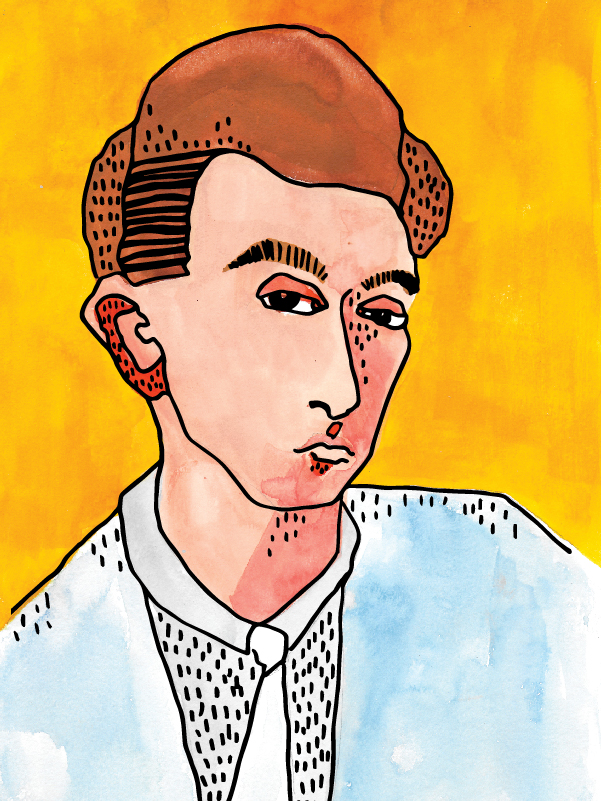
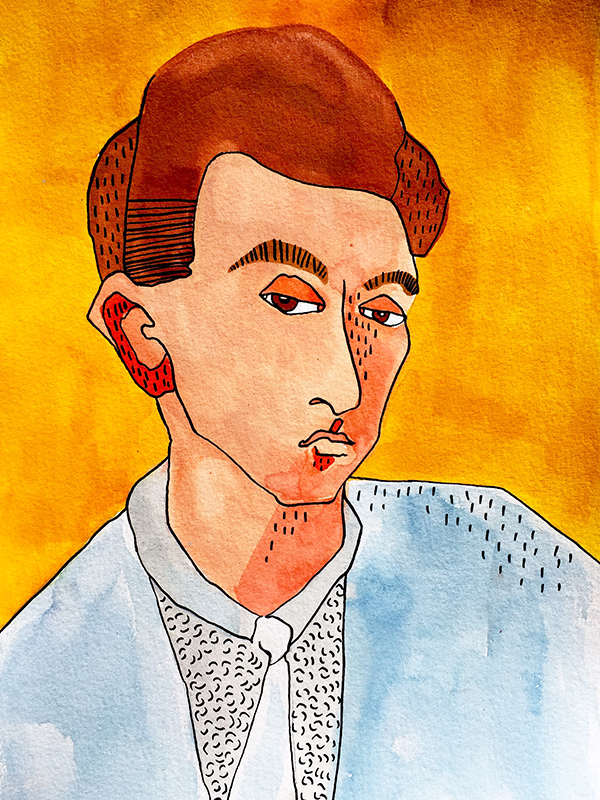
project updated

diff --git a/project/randomppl.html b/project/randomppl.html
@@ -1,7 +1,7 @@
 <!DOCTYPE html>
 <html lang="en">
 <head>
-  <title>Apartment</title>
+  <title>Random People Make You Smile</title>
   <meta charset="utf-8">
   <meta name="viewport" content="width=device-width, initial-scale=1">
   <!--font-->
@@ -19,9 +19,9 @@
 <body id="home">
 <!-- Navbar -->
 <div id="about" class="container-fluid bg-blue text-center">
-  <a href="justcollection.html"><span class="glyphicon glyphicon-chevron-left"></span></a>
+  <a href="daydaydoodle.html"><span class="glyphicon glyphicon-chevron-left"></span></a>
   <a href="../index.html"><img src="../img/home.svg" class="img-responsive hover home-icon" alt="image"></a>
-  <a href="littlestores.html"><span class="glyphicon glyphicon-chevron-right"></span></a>
+  <a href="portraits.html"><span class="glyphicon glyphicon-chevron-right"></span></a>
 </div>
 </div>
 
@@ -29,16 +29,18 @@
 
 <!-- Content-->
 <div class="container-fluid bg-white text-center" >
-  <h2 class="gallerytitle">Apartment</h2><br/>
+  <h2 class="gallerytitle">Random People Make You Smile</h2><br/>
   <div class="row"> 
     <div class="col-sm-12 description">
-      <p>2016 / A series of illustrations of ambiguous apartments.</p>
+      <p>2016 / Random people Make You Smile.<br/>
+      A seies of illustrations of random people doing random things at random places.</p>
     </div>
   </div>
   <div class="row gallery">
     <div class="col-sm-12">
-      <img src="../img/apartment/kitchen.jpg" class="img-responsive artwork" alt="image"/>
-
+      <img src="../img/randomppl/randomppl01.jpg" class="img-responsive artwork-portrait" alt="image"/>
+      <img src="../img/randomppl/randomppl02.jpg" class="img-responsive artwork-portrait" alt="image"/>
+      <img src="../img/randomppl/randomppl03.jpg" class="img-responsive artwork-portrait" alt="image"/>
     </div>
   </div>
 
@@ -57,7 +59,6 @@
     <a href="https://www.instagram.com/urbancatcher/" target="_blank"><img src="../img/socialicon/ig.png" class="img-responsive hover" style="display:inline" alt="image" width="80px" height=auto></a>
     <a href="https://www.pinterest.com/urbancatcherhk" target="_blank"><img src="../img/socialicon/pinterest.png" class="img-responsive hover" style="display:inline" alt="image" width="80px" height=auto></a>
 <!--     <a href="https://www.flickr.com/photos/urbancatcher" target="_blank"><img src="../img/socialicon/flickr.png" class="img-responsive hover" style="display:inline" alt="oops.." width="80px" height=auto></a> -->
-
   </div>
   <div class="col-sm-4" style="padding:0px 50px">
     <h3 style="color:#ffffff">Store</h3>

diff --git a/project/cozyhome.html b/project/cozyhome.html
@@ -1,7 +1,7 @@
 <!DOCTYPE html>
 <html lang="en">
 <head>
-  <title>Little Stores</title>
+  <title>Cozy Home</title>
   <meta charset="utf-8">
   <meta name="viewport" content="width=device-width, initial-scale=1">
   <!--font-->
@@ -19,9 +19,9 @@
 <body id="home">
 <!-- Navbar -->
 <div id="about" class="container-fluid bg-blue text-center">
-  <a href="apartment.html"><span class="glyphicon glyphicon-chevron-left"></span></a>
+  <a href="portraits.html"><span class="glyphicon glyphicon-chevron-left"></span></a>
   <a href="../index.html"><img src="../img/home.svg" class="img-responsive hover home-icon" alt="image"></a>
-  <a href="postcard.html"><span class="glyphicon glyphicon-chevron-right"></span></a>
+  <a href="jungle.html"><span class="glyphicon glyphicon-chevron-right"></span></a>
 </div>
 </div>
 
@@ -29,17 +29,18 @@
 
 <!-- Content-->
 <div class="container-fluid bg-white text-center" >
-  <h2 class="gallerytitle">Little Stores</h2><br/>
+  <h2 class="gallerytitle">Cozy Home</h2><br/>
   <div class="row"> 
     <div class="col-sm-12 description">
-      <p>2016 / A seies of illustrations of little funny stores in neighbourhoods I have been living in.</p>
+      <p>2016 / Cozy Home<br/>
+      A series of illustrations of cozy home in ambiguous apartments.</p>
     </div>
   </div>
   <div class="row gallery">
     <div class="col-sm-12">
-      <img src="../img/littlestores/store01.jpg" class="img-responsive artwork" alt="image"/>
-<!--       <h4 class="worktitle">Beer Collection</h4> -->
-
+      <img src="../img/cozyhome/cozyhome01.jpg" class="img-responsive artwork" alt="image"/>
+      <img src="../img/cozyhome/cozyhome03.jpg" class="img-responsive artwork" alt="image"/>
+      <img src="../img/cozyhome/cozyhome02.jpg" class="img-responsive artwork" alt="image"/>
     </div>
   </div>
 
@@ -58,6 +59,7 @@
     <a href="https://www.instagram.com/urbancatcher/" target="_blank"><img src="../img/socialicon/ig.png" class="img-responsive hover" style="display:inline" alt="image" width="80px" height=auto></a>
     <a href="https://www.pinterest.com/urbancatcherhk" target="_blank"><img src="../img/socialicon/pinterest.png" class="img-responsive hover" style="display:inline" alt="image" width="80px" height=auto></a>
 <!--     <a href="https://www.flickr.com/photos/urbancatcher" target="_blank"><img src="../img/socialicon/flickr.png" class="img-responsive hover" style="display:inline" alt="oops.." width="80px" height=auto></a> -->
+
   </div>
   <div class="col-sm-4" style="padding:0px 50px">
     <h3 style="color:#ffffff">Store</h3>

diff --git a/project/portraits.html b/project/portraits.html
@@ -1,4 +1,4 @@
-<!DOCTYPE html>
+w<!DOCTYPE html>
 <html lang="en">
 <head>
   <title>Portraits</title>
@@ -19,41 +19,28 @@
 <body id="home">
 <!-- Navbar -->
 <div id="about" class="container-fluid bg-blue text-center">
-  <a href="daydaydoodle.html"><span class="glyphicon glyphicon-chevron-left"></span></a>
+  <a href="randomppl.html"><span class="glyphicon glyphicon-chevron-left"></span></a>
   <a href="../index.html"><img src="../img/home.svg" class="img-responsive hover home-icon" alt="image"></a>
-  <a href="jungle.html"><span class="glyphicon glyphicon-chevron-right"></span></a>
+  <a href="cozyhome.html"><span class="glyphicon glyphicon-chevron-right"></span></a>
 </div>
 </div>
 
 
 
 <!-- Content-->
-<div class="container-fluid bg-white text-center" >
+<div class="container-fluid bg-white text-center">
   <h2 class="gallerytitle">Portraits</h2><br/>
   <div class="row"> 
     <div class="col-sm-12 description">
-      <p>2016 / A series of illustrations of portraits.</p>
+      <p>2016 / Portraits.<br/>
+      A series of illustrations of familiar faces.</p>
     </div>
   </div>
   <div class="row gallery">
-    <h4 class="worktitle">Van Gogh</h4>    
-    <div class="col-sm-6">
-      <img src="../img/portraits/vangogh01.jpg" class="img-responsive artwork-portrait" alt="image"/>
-    </div>
-    <div class="col-sm-6">
-      <img src="../img/portraits/vangogh02.jpg" class="img-responsive artwork-portrait" alt="image"/>
-    </div>
-
-    <h4 class="worktitle">Schiele and Klimt</h4>    
-    <div class="col-sm-6">
-      <img src="../img/portraits/schiele.jpg" class="img-responsive artwork-portrait" alt="image"/>
-    </div>
-    <div class="col-sm-6">
-      <img src="../img/portraits/klimt.jpg" class="img-responsive artwork-portrait" alt="image"/>
-    </div>
-
-    <h4 class="worktitle">Contour</h4>    
     <div class="col-sm-12">
+      <img src="../img/portraits/vangogh01.jpg" class="img-responsive artwork-portrait" alt="image"/>
+      <img src="../img/portraits/vangogh02.jpg" class="img-responsive artwork-portrait" alt="image"/>
+      <img src="../img/portraits/schiele.jpg" class="img-responsive artwork-portrait" alt="image"/>
       <img src="../img/portraits/artists-contour.jpg" class="img-responsive artwork" alt="image" style="width:800px"/>
     </div>
 

diff --git a/index.html b/index.html
@@ -83,9 +83,19 @@
     </div>
 
     <div class="col-sm-3 thumbnail-frame">
-      <a href="project/portraits.html"><img src="img/thumbnail/portrait.jpg" class="img-responsive hover thumbnailicon" style="display:inline" alt="image"><p>Portraits</p></a> 
+      <a href="project/randomppl.html"><img src="img/thumbnail/randomppl.jpg" class="img-responsive hover thumbnailicon" style="display:inline" alt="image"><p>Random People Make You Smile :)</p></a> 
     </div>
 
+    <div class="col-sm-3 thumbnail-frame">
+      <a href="project/portraits.html"><img src="img/thumbnail/portraits.jpg" class="img-responsive hover thumbnailicon" style="display:inline" alt="image"><p>Portraits</p></a> 
+    </div>
+
+    <div class="col-sm-3 thumbnail-frame">
+      <a href="project/cozyhome.html"><img src="img/thumbnail/cozyhome.jpg" class="img-responsive hover thumbnailicon" style="display:inline" alt="image"><p>Cozy Home</p></a> 
+    </div>
+
+  </div>   
+  <div class="row">
     <div class="col-sm-3 thumbnail-frame">
       <a href="project/jungle.html"><img src="img/thumbnail/jungle.jpg" class="img-responsive hover thumbnailicon" style="display:inline" alt="image"><p>Welcome to the Jungle</p></a> 
     </div>
@@ -94,19 +104,8 @@
       <a href="project/botanicalgarden.html"><img src="img/thumbnail/botanicalgarden.jpg" class="img-responsive hover thumbnailicon" style="display:inline" alt="image"><p>Botanical Garden</p></a> 
     </div>
 
-  </div>
-  
-  <div class="row">
     <div class="col-sm-3 thumbnail-frame">
       <a href="project/justcollection.html"><img src="img/thumbnail/justcollection.jpg" class="img-responsive hover thumbnailicon" style="display:inline" alt="image"><p>Just Collection</p></a> 
-    </div>
-
-    <div class="col-sm-3 thumbnail-frame">
-      <a href="project/apartment.html"><img src="img/thumbnail/apartment.jpg" class="img-responsive hover thumbnailicon" style="display:inline" alt="image"><p>Apartment</p></a> 
-    </div>
-
-    <div class="col-sm-3 thumbnail-frame">
-      <a href="project/littlestores.html"><img src="img/thumbnail/littlestores.jpg" class="img-responsive hover thumbnailicon" style="display:inline" alt="image"><p>Little Stores</p></a> 
     </div>
 
     <div class="col-sm-3 thumbnail-frame">

diff --git a/project/botanicalgarden.html b/project/botanicalgarden.html
@@ -32,18 +32,18 @@
   <h2 class="gallerytitle">Botanical Garden</h2><br/>
   <div class="row">
     <div class="col-sm-12 description">
-      <p>2016 / A series of illustrations of plants.</p>
+      <p>2016 / Botanical Garden.<br/>
+      A series of illustrations of plants and girls.</p>
     </div>
   </div>
   <div class="row gallery">
     <div class="col-sm-12">
-      <h4 class="worktitle">Cactus Love</h4>    
-      <img src="../img/botanicalgarden/cactusandgirl.jpg" class="img-responsive artwork" alt="image"/>
-      <img src="../img/botanicalgarden/cactus.jpg" class="img-responsive artwork" alt="image"/>
+<!--       <h4 class="worktitle">Cactus Love</h4> -->
+      <img src="../img/botanicalgarden/garden01.jpg" class="img-responsive artwork" alt="image"/>
+      <img src="../img/botanicalgarden/garden03.jpg" class="img-responsive artwork" alt="image"/>
+      <img src="../img/botanicalgarden/garden02.jpg" class="img-responsive artwork" alt="image"/>
+
       <img src="../img/botanicalgarden/cactus-pattern.jpg" class="img-responsive artwork" alt="image"/>
-
-
-
     </div>
   </div>
 

diff --git a/project/daydaydoodle.html b/project/daydaydoodle.html
@@ -21,7 +21,7 @@
 <div id="about" class="container-fluid bg-blue text-center">
   <a href="postcard.html"><span class="glyphicon glyphicon-chevron-left"></span></a>
   <a href="../index.html"><img src="../img/home.svg" class="img-responsive hover home-icon" alt="image"></a>
-  <a href="portraits.html"><span class="glyphicon glyphicon-chevron-right"></span></a>
+  <a href="randomppl.html"><span class="glyphicon glyphicon-chevron-right"></span></a>
 </div>
 </div>
 
@@ -32,7 +32,8 @@
   <h2 class="gallerytitle">Day Day Doodle</h2><br/>
   <div class="row">
     <div class="col-sm-12 description">
-      <p>Since 2014 / Personal project of daily doodles.<br/>
+      <p>Since 2014 / Day Day Doodle.<br/>
+      Personal project of daily doodles.<br/>
       Some of these doodles are further developed and finalised into artwork or products which are available at <a href="">Society6</a>. <br/>
       Follow Ur's <a href="https://www.instagram.com/urbancatcher/" target="_blank">instagram</a> to see today's doodle!</p>
     </div>

diff --git a/project/jungle.html b/project/jungle.html
@@ -19,7 +19,7 @@
 <body id="home">
 <!-- Navbar -->
 <div id="about" class="container-fluid bg-blue text-center">
-  <a href="portraits.html"><span class="glyphicon glyphicon-chevron-left"></span></a>
+  <a href="cozyhome.html"><span class="glyphicon glyphicon-chevron-left"></span></a>
   <a href="../index.html"><img src="../img/home.svg" class="img-responsive hover home-icon" alt="image"></a>
   <a href="botanicalgarden.html"><span class="glyphicon glyphicon-chevron-right"></span></a>
 </div>
@@ -32,7 +32,8 @@
   <h2 class="gallerytitle">Welcome to the Jungle</h2><br/>
   <div class="row"> 
     <div class="col-sm-12 description">
-      <p>2016 / A seies of illustrations of jungle living inspired by Henri Rousseau's paintings.</p>
+      <p>2016 / Welcome to the Jungle.<br/>
+      A seies of illustrations of jungle life inspired by Henri Rousseau's paintings.</p>
     </div>
   </div>
   <div class="row gallery">

diff --git a/project/postcard.html b/project/postcard.html
@@ -19,7 +19,7 @@
 <body id="home">
 <!-- Navbar -->
 <div id="about" class="container-fluid bg-blue text-center">
-  <a href="littlestores.html"><span class="glyphicon glyphicon-chevron-left"></span></a>
+  <a href="justcollection.html"><span class="glyphicon glyphicon-chevron-left"></span></a>
   <a href="../index.html"><img src="../img/home.svg" class="img-responsive hover home-icon" alt="image"></a>
   <a href="daydaydoodle.html"><span class="glyphicon glyphicon-chevron-right"></span></a>
 </div>
@@ -31,7 +31,7 @@
   <h2 class="gallerytitle">Postcard</h2><br/>
   <div class="row">
     <div class="col-sm-12 description">
-      <p>Since I was litte...</br>
+      <p>Since I was litte... / Postcard.</br>
       Ur's lucky to have friends who don't mind constantly receiving her annoying postcards. <br/>
       If you happen to be one of them, reach Ur and she'd love to send you one :)
     </div>

diff --git a/project/justcollection.html b/project/justcollection.html
@@ -21,7 +21,7 @@
 <div id="about" class="container-fluid bg-blue text-center">
   <a href="botanicalgarden.html"><span class="glyphicon glyphicon-chevron-left"></span></a>
   <a href="../index.html"><img src="../img/home.svg" class="img-responsive hover home-icon" alt="image"></a>
-  <a href="apartment.html"><span class="glyphicon glyphicon-chevron-right"></span></a>
+  <a href="postcard.html"><span class="glyphicon glyphicon-chevron-right"></span></a>
 </div>
 </div>
 
@@ -32,7 +32,8 @@
   <h2 class="gallerytitle">Just Collection</h2><br/>
   <div class="row"> 
     <div class="col-sm-12 description">
-      <p>Since 2014 / A series of watercolor illustrations of collections of objects we buy and consume every day.</p>
+      <p>Since 2014 / Just Collection.<br/>
+      A series of illustrations of collections of objects.</p>
     </div>
   </div>
   <div class="row gallery">

diff --git a/style.css b/style.css
@@ -58,7 +58,10 @@ a:hover, a:active {
   display:inline;
 }
 .gallery{
-  padding:10rem;
+  padding-top:5rem;
+  padding-bottom:10rem;
+  padding-left:5rem;
+  padding-right:5rem;
 }
 .gallerytitle{
 /*  padding:3rem;
@@ -79,17 +82,13 @@ a:hover, a:active {
 
 }
 .artwork {
-  padding-top: 2rem;
-  padding-bottom: 2rem;
-  padding-left: 2rem:
-  padding-right: 2rem;
-  width:750px;
+  padding:2rem;
+  width:800px;
   display:inline;
 }
 .artwork-portrait {
   padding-top:2rem;
-  padding-bottom:10rem;
-  width:400px;
+  width:600px;
   display:inline;
 }
 
